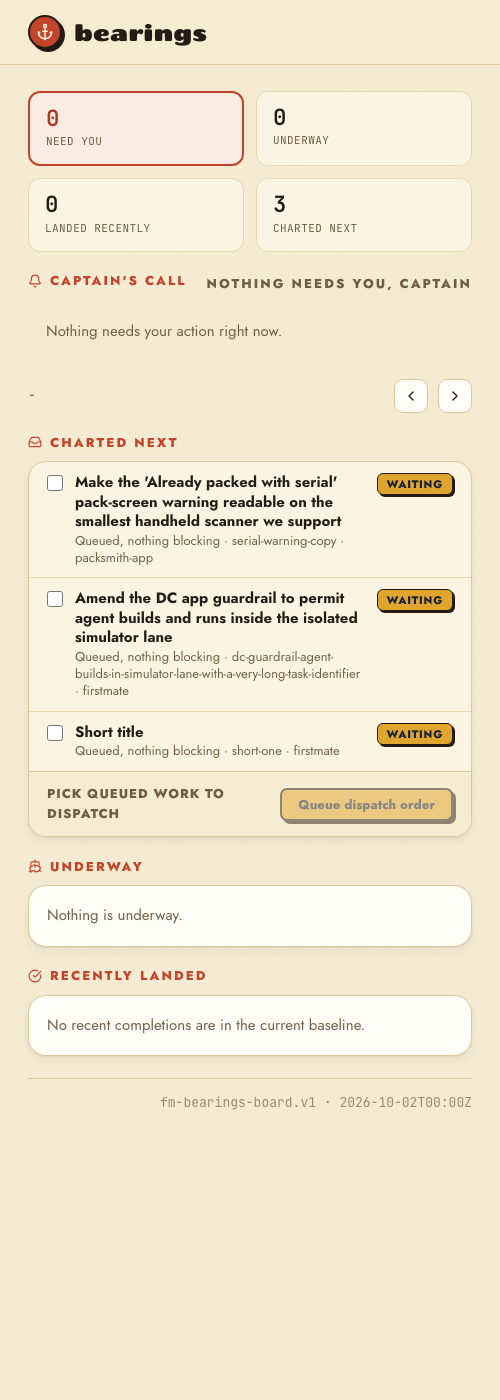
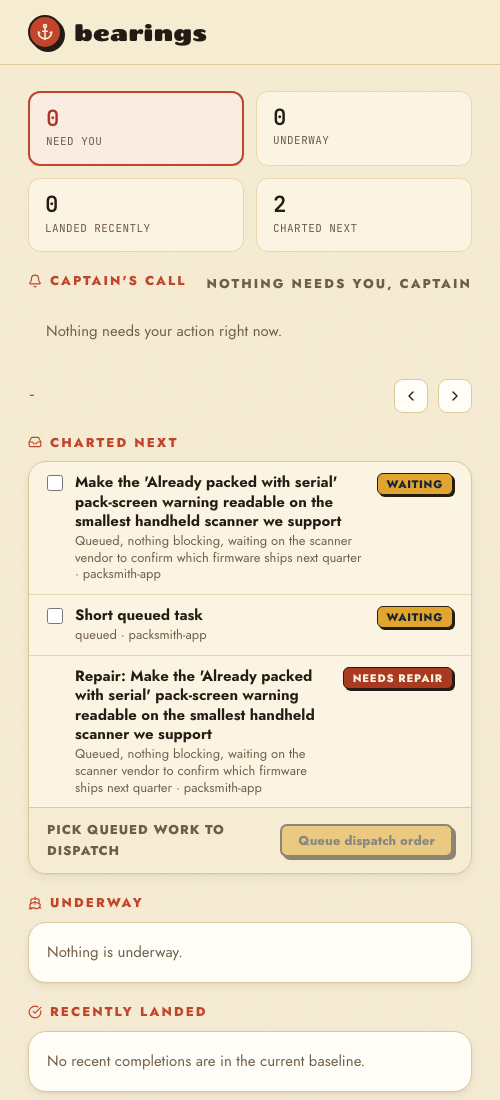
no-mistakes: evidence for fm/fm-board-charted-no-truncate (run 01M6Q91C8MSAYGD4JMMAA6XBHW)

diff --git a/.no-mistakes/evidence/fm/fm-board-charted-no-truncate/board-after.html b/.no-mistakes/evidence/fm/fm-board-charted-no-truncate/board-after.html
@@ -383,44 +383,7 @@ a { color: inherit; text-decoration: none; }
      fm-bearings-board.v1 payload in place of the placeholder below; everything
      above and below is the shipped template and is never regenerated per run. -->
 <script id="bearings-data" type="application/json">
-{
-  "schema": "fm-bearings-board.v1",
-  "home": "main",
-  "generated": "2026-10-02T00:00Z",
-  "prs_live": false,
-  "captains_call": [],
-  "underway": [],
-  "landed": [],
-  "charted": [
-    {
-      "id": "serial-warning-copy",
-      "repo": "packsmith-app",
-      "title": "Make the 'Already packed with serial' pack-screen warning readable on the smallest handheld scanner we support",
-      "reason": "Queued, nothing blocking · serial-warning-copy",
-      "dispatchable": true,
-      "filed": "2026-09-30"
-    },
-    {
-      "id": "dc-guardrail-agent-builds",
-      "repo": "firstmate",
-      "title": "Amend the DC app guardrail to permit agent builds and runs inside the isolated simulator lane",
-      "reason": "Queued, nothing blocking · dc-guardrail-agent-builds-in-simulator-lane-with-a-very-long-task-identifier",
-      "dispatchable": true,
-      "filed": "2026-09-29"
-    },
-    {
-      "id": "short-one",
-      "repo": "firstmate",
-      "title": "Short title",
-      "reason": "Queued, nothing blocking · short-one",
-      "dispatchable": true,
-      "filed": "2026-09-28"
-    }
-  ],
-  "charted_more": 0,
-  "charted_warning_more": 0
-}
-
+{"schema":"fm-bearings-board.v1","home":"demo-home","generated":"2026-11-06T00:00Z","prs_live":false,"captains_call":[],"underway":[],"landed":[],"charted":[{"id":"long-gate","repo":"packsmith-app","title":"Make the 'Already packed with serial' pack-screen warning readable on the smallest handheld scanner we support","reason":"Queued, nothing blocking, waiting on the scanner vendor to confirm which firmware ships next quarter","dispatchable":true,"filed":"2026-11-05"},{"id":"short-gate","repo":"packsmith-app","title":"Short queued task","reason":"queued","dispatchable":true,"filed":"2026-11-04"},{"id":"main-inventory","repo":"packsmith-app","title":"Repair: Make the 'Already packed with serial' pack-screen warning readable on the smallest handheld scanner we support","reason":"Queued, nothing blocking, waiting on the scanner vendor to confirm which firmware ships next quarter","dispatchable":false,"kind":"warning"}],"charted_more":0,"charted_warning_more":0}
 </script>
 
 <script>

diff --git a/.no-mistakes/evidence/fm/fm-board-charted-no-truncate/board-before.html b/.no-mistakes/evidence/fm/fm-board-charted-no-truncate/board-before.html
@@ -375,44 +375,7 @@ a { color: inherit; text-decoration: none; }
      fm-bearings-board.v1 payload in place of the placeholder below; everything
      above and below is the shipped template and is never regenerated per run. -->
 <script id="bearings-data" type="application/json">
-{
-  "schema": "fm-bearings-board.v1",
-  "home": "main",
-  "generated": "2026-10-02T00:00Z",
-  "prs_live": false,
-  "captains_call": [],
-  "underway": [],
-  "landed": [],
-  "charted": [
-    {
-      "id": "serial-warning-copy",
-      "repo": "packsmith-app",
-      "title": "Make the 'Already packed with serial' pack-screen warning readable on the smallest handheld scanner we support",
-      "reason": "Queued, nothing blocking · serial-warning-copy",
-      "dispatchable": true,
-      "filed": "2026-09-30"
-    },
-    {
-      "id": "dc-guardrail-agent-builds",
-      "repo": "firstmate",
-      "title": "Amend the DC app guardrail to permit agent builds and runs inside the isolated simulator lane",
-      "reason": "Queued, nothing blocking · dc-guardrail-agent-builds-in-simulator-lane-with-a-very-long-task-identifier",
-      "dispatchable": true,
-      "filed": "2026-09-29"
-    },
-    {
-      "id": "short-one",
-      "repo": "firstmate",
-      "title": "Short title",
-      "reason": "Queued, nothing blocking · short-one",
-      "dispatchable": true,
-      "filed": "2026-09-28"
-    }
-  ],
-  "charted_more": 0,
-  "charted_warning_more": 0
-}
-
+{"schema":"fm-bearings-board.v1","home":"demo-home","generated":"2026-11-06T00:00Z","prs_live":false,"captains_call":[],"underway":[],"landed":[],"charted":[{"id":"long-gate","repo":"packsmith-app","title":"Make the 'Already packed with serial' pack-screen warning readable on the smallest handheld scanner we support","reason":"Queued, nothing blocking, waiting on the scanner vendor to confirm which firmware ships next quarter","dispatchable":true,"filed":"2026-11-05"},{"id":"short-gate","repo":"packsmith-app","title":"Short queued task","reason":"queued","dispatchable":true,"filed":"2026-11-04"},{"id":"main-inventory","repo":"packsmith-app","title":"Repair: Make the 'Already packed with serial' pack-screen warning readable on the smallest handheld scanner we support","reason":"Queued, nothing blocking, waiting on the scanner vendor to confirm which firmware ships next quarter","dispatchable":false,"kind":"warning"}],"charted_more":0,"charted_warning_more":0}
 </script>
 
 <script>
